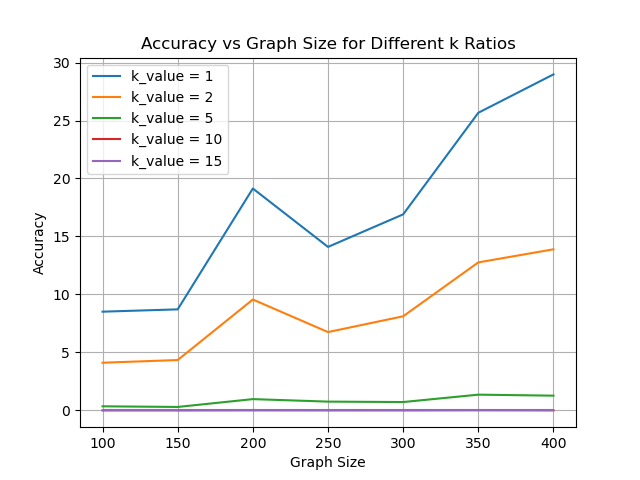
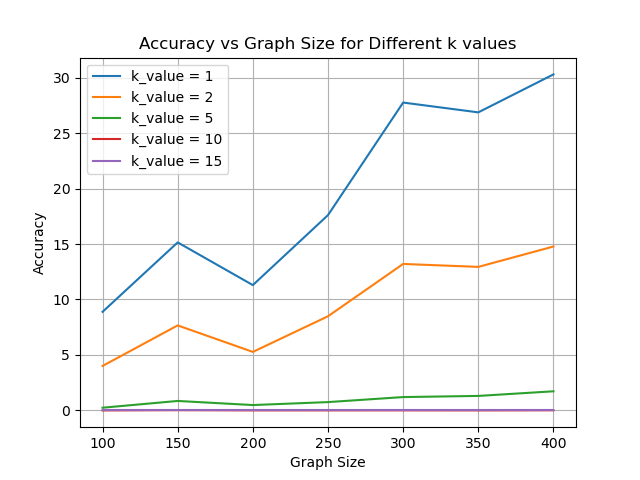
renaming stuff

diff --git a/Experiment_Suite_1.py b/Experiment_Suite_1.py
@@ -23,18 +23,18 @@ def experiment_helper(G, k_value, source, num_trials):
     return count/num_trials
 
 
-def experiment1(G_sizes, k_ratios, source, num_trials, upper):
-    results = {ratio: [] for ratio in k_ratios}
+def experiment1(G_sizes, k_value, source, num_trials, upper):
+    results = {value: [] for value in k_value}
     
     for size in G_sizes:
         g = create_random_complete_graph(size, upper)
-        for ratio in k_ratios:
-            k_value = ratio
+        for value in k_value:
+            k_value = value
             avg_time = experiment_helper(g, k_value, source, num_trials)
-            results[ratio].append(avg_time)
+            results[value].append(avg_time)
     
-    for ratio in k_ratios:
-        plt.plot(G_sizes, results[ratio], label=f'k_value = {ratio}')
+    for value in k_value:
+        plt.plot(G_sizes, results[value], label=f'k_value = {value}')
     
     plt.xlabel('Graph sizes')
     plt.ylabel('Time')
@@ -46,12 +46,12 @@ def experiment1(G_sizes, k_ratios, source, num_trials, upper):
 G_sizes = []
 for i in range(100, 525, 25):
     G_sizes.append(i)
-k_ratios = [1, 5, 10, 25]
+k_value = [1, 5, 10, 25]
 source = 0
 num_trials = 10
 upper = 1000
 
-#experiment1(G_sizes, k_ratios, source, num_trials, upper)
+#experiment1(G_sizes, k_value, source, num_trials, upper)
 '''
 
 '''
@@ -61,36 +61,36 @@ Experiment 2
 '''
 
 
-def experiment1_helper(G, source, k_ratios, numtrials):
+def experiment1_helper(G, source, k_value, numtrials):
     results = {}
     graph_size = G.number_of_nodes()
     dist_standard = dijkstra(G, source)
     total_distance_standard = total_dist(dist_standard)
 
-    for ratio in k_ratios:
+    for value in k_value:
         relative_error = 0
         for i in range(numtrials):
-            k = ratio
+            k = value
             dist_approx = dijkstra_approx(G, source, k)
             total_distance_approx = total_dist(dist_approx)
 
             # Correctly calculate accuracy
             relative_error += abs(total_distance_approx - total_distance_standard) / total_distance_standard
-        results[ratio] = relative_error/numtrials
+        results[value] = relative_error/numtrials
     
     return results
 
-def experiment1(G_sizes, k_ratios, source, upper, numtrials):
-    results = {ratio: [] for ratio in k_ratios}
+def experiment1(G_sizes, k_value, source, upper, numtrials):
+    results = {value: [] for value in k_value}
     for size in G_sizes:
         G = create_random_complete_graph(size, upper)
-        accuracies = experiment1_helper(G, source, k_ratios, numtrials)
-        for ratio in k_ratios:
-            results[ratio].append(accuracies[ratio])
+        accuracies = experiment1_helper(G, source, k_value, numtrials)
+        for value in k_value:
+            results[value].append(accuracies[value])
             
-    for ratio in k_ratios:
-        plt.plot(G_sizes, results[ratio], label=f'k_value = {ratio}')
-    plt.title('Accuracy vs Graph Size for Different k Ratios')
+    for value in k_value:
+        plt.plot(G_sizes, results[value], label=f'k_value = {value}')
+    plt.title('Accuracy vs Graph Size for Different k values')
     plt.xlabel('Graph Size')
     plt.ylabel('Accuracy')
     plt.legend()
@@ -98,15 +98,15 @@ def experiment1(G_sizes, k_ratios, source, upper, numtrials):
     plt.show()
     
 
-G_sizes2 = []
+G_sizes1 = []
 for i in range(100, 450, 50):
-    G_sizes2.append(i)
-k_ratios2 = [1, 2, 5, 10, 15]
-source2 = 0
-num_trials2 = 25
-upper2 = 1000
+    G_sizes1.append(i)
+k_value1 = [1, 2, 5, 10, 15]
+source1 = 0
+num_trials1 = 25
+upper1 = 1000
 
-#experiment1(G_sizes2, k_ratios2, source2, upper2, num_trials2)
+#experiment1(G_sizes1, k_value1, source1, upper1, num_trials1)
 
 
 '''
@@ -128,36 +128,36 @@ def create_sparse_graph(num_nodes, edge_probability, upper):
 
     return G
 
-def experiment2_helper(G, source, k_ratios, numtrials):
+def experiment2_helper(G, source, k_value, numtrials):
     results = {}
     dist_standard = dijkstra(G, source)
     total_distance_standard = total_dist(dist_standard)
 
-    for ratio in k_ratios:
+    for value in k_value:
         relative_error = 0
         for i in range(numtrials):
-            k = ratio
+            k = value
             dist_approx = dijkstra_approx(G, source, k)
             total_distance_approx = total_dist(dist_approx)
 
             # Correctly calculate accuracy
             relative_error += abs(total_distance_approx - total_distance_standard) / total_distance_standard
-        results[ratio] = relative_error/numtrials
+        results[value] = relative_error/numtrials
     
     return results
 
-def experiment2(G_size, k_ratios, source, upper, numtrials, probabilities):
-    results = {ratio: [] for ratio in k_ratios}
+def experiment2(G_size, k_value, source, upper, numtrials, probabilities):
+    results = {value: [] for value in k_value}
     
     for prob in probabilities:
         G = create_sparse_graph(G_size, prob, upper)
-        accuracies = experiment2_helper(G, source, k_ratios, numtrials)
-        for ratio in k_ratios:
-            results[ratio].append(accuracies[ratio])
+        accuracies = experiment2_helper(G, source, k_value, numtrials)
+        for value in k_value:
+            results[value].append(accuracies[value])
             
-    for ratio in k_ratios:
-        plt.plot(probabilities, results[ratio], label=f'k_ratio = {ratio}')
-    plt.title('Accuracy vs Graph Density for Different k Ratios')
+    for value in k_value:
+        plt.plot(probabilities, results[value], label=f'k_value = {value}')
+    plt.title('Accuracy vs Graph Density for Different k values')
     plt.xlabel('Graph Density (Probability)')
     plt.ylabel('Accuracy')
     plt.legend()
@@ -165,14 +165,14 @@ def experiment2(G_size, k_ratios, source, upper, numtrials, probabilities):
     plt.show()
     
 
-G_sizes3 = 200
-k_ratios3 = [1, 2, 5, 10, 15]
-source3 = 0
-num_trials3 = 10
-upper3 = 1000
+G_sizes2 = 200
+k_value2 = [1, 2, 5, 10, 15]
+source2 = 0
+num_trials2 = 10
+upper2 = 1000
 probability = [0.1, 0.2, 0.3, 0.5, 0.75]
 
-#experiment2(G_sizes3, k_ratios3, source3, num_trials3, upper3, probability)
+#experiment2(G_sizes2, k_value2, source2, num_trials2, upper2, probability)
 
 
 
@@ -183,36 +183,36 @@ Experiment 4
 '''
 
 
-def experiment3_helper(G, source, k_ratios, numtrials):
+def experiment3_helper(G, source, k_value, numtrials):
     results = {}
     graph_size = G.number_of_nodes()
     dist_standard = dijkstra(G, source)
     total_distance_standard = total_dist(dist_standard)
 
-    for ratio in k_ratios:
+    for value in k_value:
         relative_error = 0
         for i in range(numtrials):
-            k = ratio
+            k = value
             dist_approx = dijkstra_approx(G, source, k)
             total_distance_approx = total_dist(dist_approx)
 
             # Correctly calculate accuracy
             relative_error += abs(total_distance_approx - total_distance_standard) / total_distance_standard
-        results[ratio] = relative_error/numtrials
+        results[value] = relative_error/numtrials
     
     return results
 
-def experiment3(G_sizes, k_ratios, source, upper, numtrials, probability):
-    results = {ratio: [] for ratio in k_ratios}
+def experiment3(G_sizes, k_value, source, upper, numtrials, probability):
+    results = {value: [] for value in k_value}
     for size in G_sizes:
         G = create_sparse_graph(size, probability, upper)
-        accuracies = experiment3_helper(G, source, k_ratios, numtrials)
-        for ratio in k_ratios:
-            results[ratio].append(accuracies[ratio])
+        accuracies = experiment3_helper(G, source, k_value, numtrials)
+        for value in k_value:
+            results[value].append(accuracies[value])
             
-    for ratio in k_ratios:
-        plt.plot(G_sizes, results[ratio], label=f'k_values = {ratio}')
-    plt.title('Accuracy vs Sparce Graphs for Different k Ratios')
+    for value in k_value:
+        plt.plot(G_sizes, results[value], label=f'k_values = {value}')
+    plt.title('Accuracy vs Sparce Graphs for Different k values')
     plt.xlabel('Graph Size')
     plt.ylabel('Accuracy')
     plt.legend()
@@ -220,15 +220,15 @@ def experiment3(G_sizes, k_ratios, source, upper, numtrials, probability):
     plt.show()
     
 
-G_sizes4 = []
+G_sizes3 = []
 for i in range(100, 450, 50):
-    G_sizes4.append(i)
-k_ratios4 = [1, 2, 5, 10, 15]
-source4 = 0
-num_trials4 = 25
-upper4 = 1000
-probability2 = 0.1
+    G_sizes3.append(i)
+k_value3 = [1, 2, 5, 10, 15]
+source3 = 0
+num_trials3 = 25
+upper3 = 1000
+probability3 = 0.1
 
-#experiment3(G_sizes4, k_ratios4, source4, upper4, num_trials4, probability2)
+#experiment3(G_sizes3, k_value3, source3, upper3, num_trials3, probability3)
 
 

diff --git a/part3.py b/part3.py
@@ -1,6 +1,6 @@
 import pandas as pd
 import numpy as np
-
+from A_star import *
 
 data = pd.read_csv("london_stations.csv")
 
